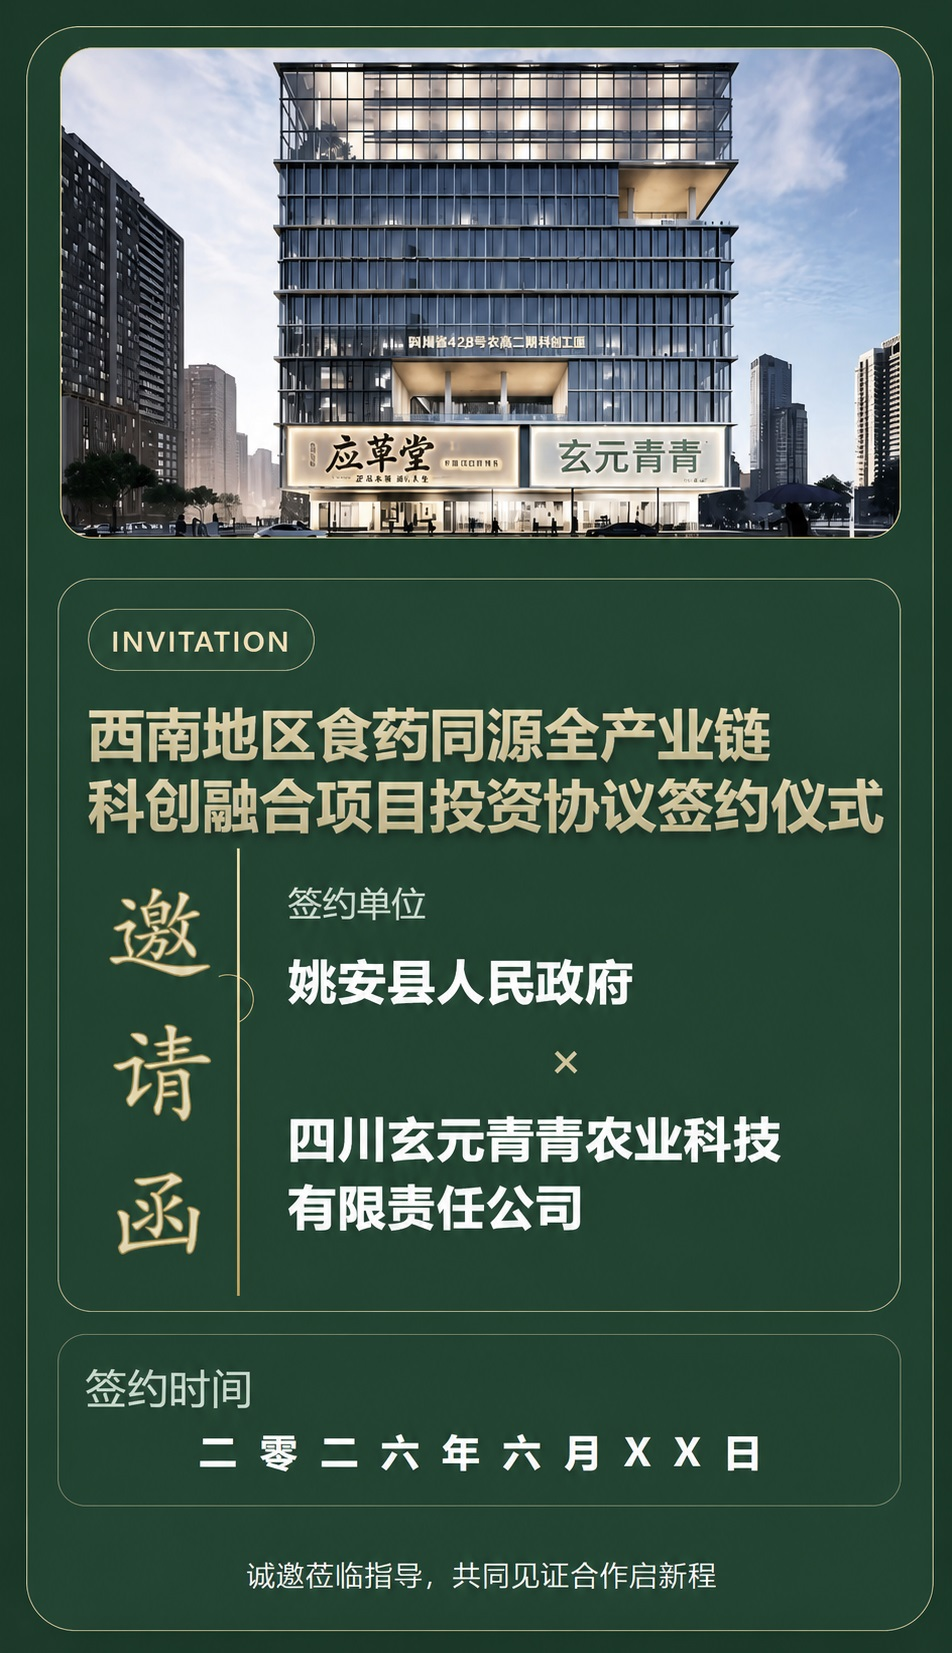
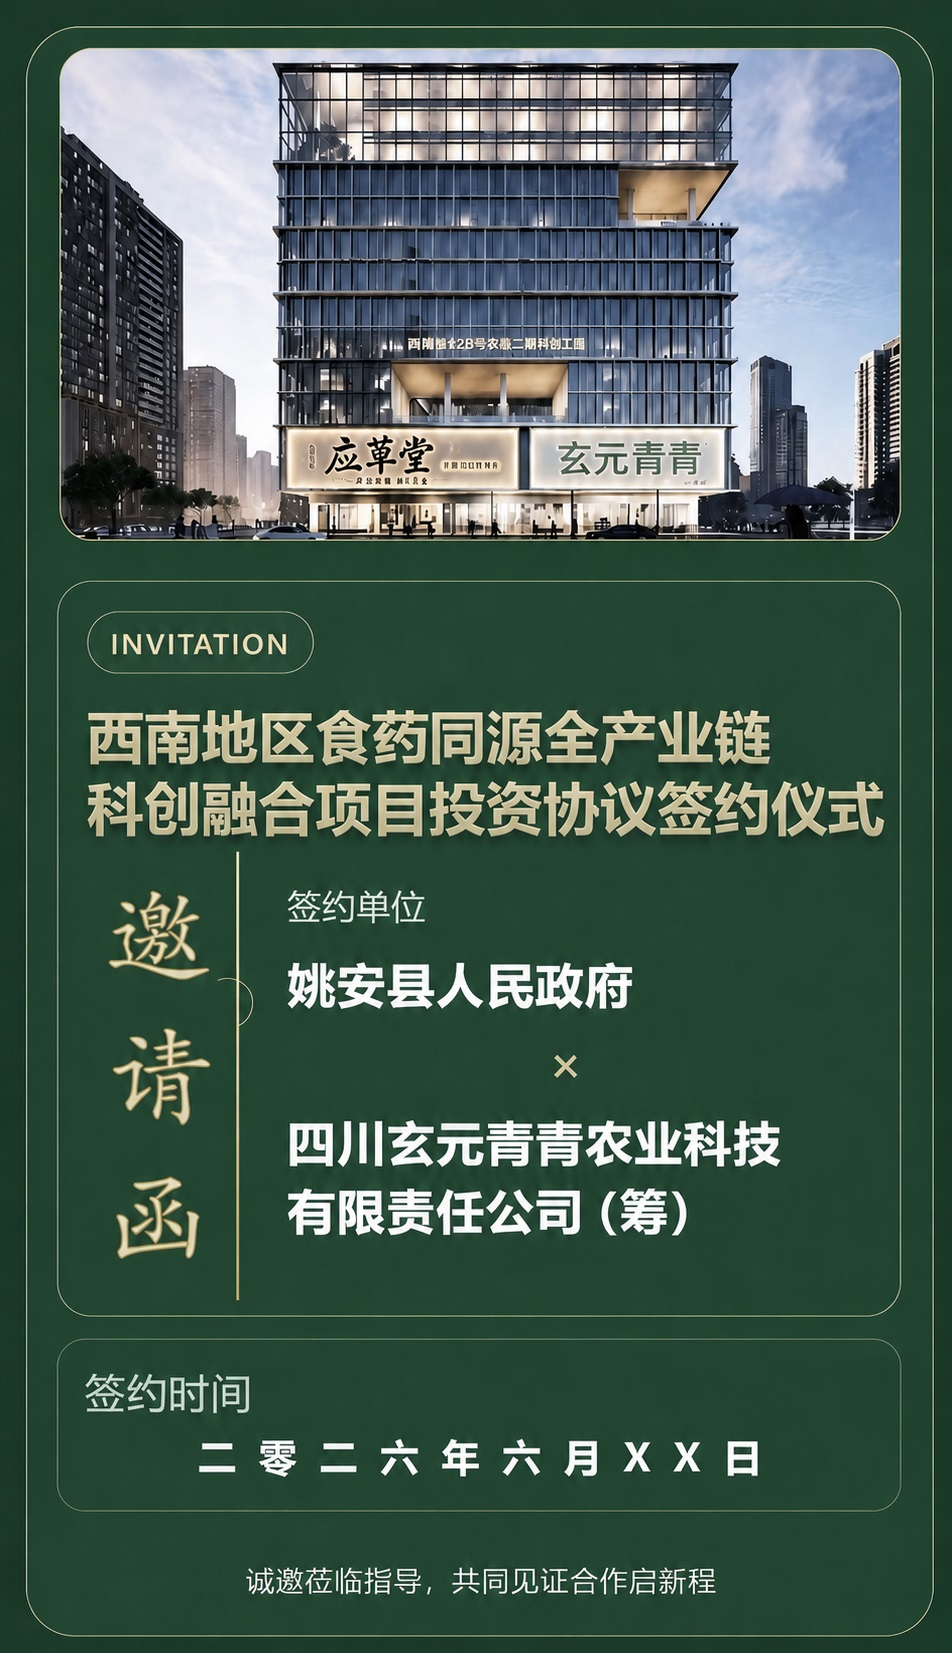
feat: 更新邀请函文案与素材集

diff --git a/index.html b/index.html
@@ -1,4 +1,4 @@
-<!doctype html>
+<!doctype html>
 <html lang="zh-CN">
 <head>
   <meta charset="UTF-8" />
@@ -372,7 +372,7 @@
         </details>
         <details>
           <summary>未来展望</summary>
-          <p>展望未来，四川玄元青青农业科技有限责任公司将始终坚守国家战略导向、深耕药食科创主业、厚植民生担当情怀、凝聚实干奋进力量，以高远战略格局、顶尖科创实力、标准产业体系、硬核实干团队，持续引领西南食药同源与中医药产业创新升级，为区域产业高质量发展、乡村全面振兴、国民大健康事业持续贡献新动能、谱写新篇章。</p>
+          <p>展望未来，四川玄元青青农业科技有限责任公司（筹）将始终坚守国家战略导向、深耕药食科创主业、厚植民生担当情怀、凝聚实干奋进力量，以高远战略格局、顶尖科创实力、标准产业体系、硬核实干团队，持续引领西南食药同源与中医药产业创新升级，为区域产业高质量发展、乡村全面振兴、国民大健康事业持续贡献新动能、谱写新篇章。</p>
         </details>
       </div>
       <div class="company-signoff">
@@ -456,3 +456,4 @@
   </script>
 </body>
 </html>
+

diff --git a/styles.css b/styles.css
@@ -1,4 +1,4 @@
-:root {
+:root {
   --green-950: #0a3228;
   --green-900: #0f5a3f;
   --green-800: #1b6c51;
@@ -878,3 +878,4 @@ details p {
     width: 100%;
   }
 }
+
